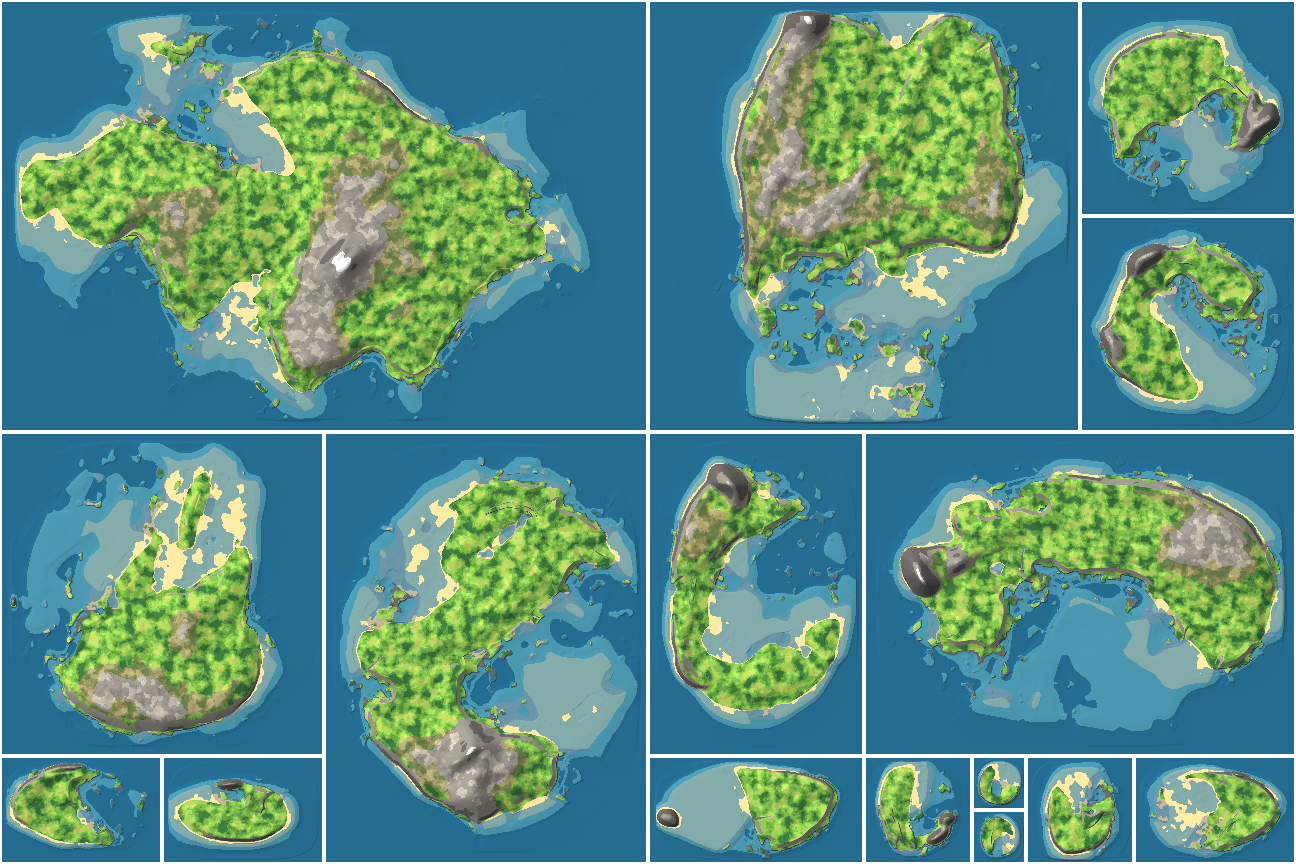
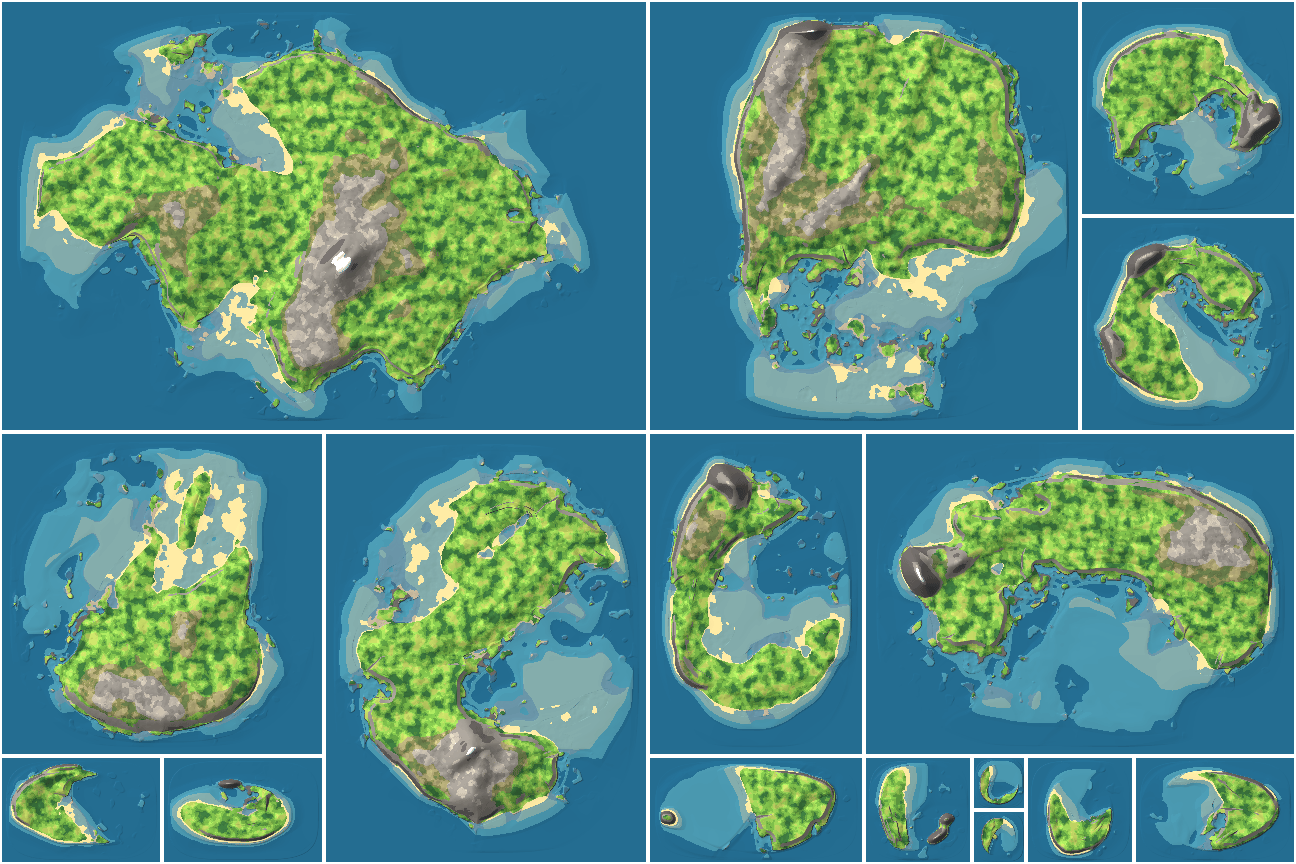
Guard every coast off the frame, and give the smallest maps real islets
The warp had one more way to push the falloff ring off the map: a drift
that diverges across it inflates the ring past both ends of an axis at
once, with no net translation for the centre correction to catch. A last
unwarped guard now forces the edge closed by the final few per cent of the
frame whatever the warp does, so every map keeps its sea margin.

The smallest maps also stopped reading as circles, which took two fixes.
Their land share now tapers further, pulling the coastline off the falloff
ring and onto the flat interior where the noise draws it. And the
sea-depth anchor slides from the sea's median to its shallow side as the
map shrinks - on a map that is mostly falloff ring the median sits in the
ring, the shallows floor never fired, and the whole lagoon mapped to
centimetres of water that painted as one huge pale bank around the islet.
Anchored among the cells the player actually sees, the lagoon runs sand
to dark water and the bank survives only where the shore character puts
it.

diff --git a/src/terrain.rs b/src/terrain.rs
@@ -73,12 +73,43 @@ const LAND_FRACTION: f32 = 0.34;
 /// clears the ring on its own and the full share is safe.
 const LAND_FRACTION_SMALL: f32 = 0.28;
 
+/// The land share on the smallest maps of all, where even the shrunken blob
+/// fills the falloff ring's whole interior. Down there the noise has no
+/// wavelength short enough to texture the outline, so a coast anywhere near
+/// the ring is *drawn by* the ring and every islet comes out a circle. This
+/// pulls the sea-level contour well inside the ring, onto the flat of the
+/// falloff, where the noise's short octaves are the steepest thing left and
+/// get to draw the outline instead.
+const LAND_FRACTION_TINY: f32 = 0.16;
+
+/// How far the sea-depth anchor slides from the sea's median towards its
+/// shallow side as the map shrinks: 0 leaves the [`Calibration`] knee on the
+/// median, 1 moves it to the shallowest sixth or so of the sea.
+///
+/// The smallest maps need it moved, because their sorted field is nearly
+/// radial order: over half of any map is falloff ring, and with no noise to
+/// interleave the two, every quantile from the median down lands *in* the
+/// ring. Anchored there, the whole visible lagoon maps to centimetres of
+/// water, and the map paints as an islet in the middle of one huge pale
+/// bank — the bullseye that made every small map read as a circle. Anchoring
+/// on the shallow side puts the knee among the cells the player actually
+/// sees, and the lagoon gets a real gradient down to dark water. On maps
+/// with wavelengths to spare the noise interleaves ring and interior and the
+/// median anchor is both safe and better — a shallow-side anchor there was
+/// tried once, bent healthy seeds and starved their beaches — so it fades
+/// out entirely before the preset sizes.
+fn shoal_shift(extent: Vec2) -> f32 {
+    let cycles = (extent.x * extent.y).sqrt() / CONTINENT_SCALE;
+    1.0 - smoothstep(0.35, 1.0, cycles)
+}
+
 /// The land share for a given map extent, continuous in it so nothing jumps
 /// as a size control sweeps through it. Measured in how many times the
-/// landmass field repeats across the map, since that is what decides whether
-/// the land is one blob or several lobes: up to about one repeat it is one
-/// blob and gets [`LAND_FRACTION_SMALL`], by one and a half it is lobed
-/// enough to carry the full [`LAND_FRACTION`].
+/// landmass field repeats across the map, since that is what decides what
+/// the land can be: down near a fifth of a repeat the coast has to fit
+/// inside the falloff ring and gets [`LAND_FRACTION_TINY`], up to about one
+/// repeat the land is a single blob and gets [`LAND_FRACTION_SMALL`], and by
+/// one and a half it is lobed enough to carry the full [`LAND_FRACTION`].
 ///
 /// On a rectangular map the repeats are counted across the geometric mean of
 /// the two extents — how many lobes the field can fit goes with the map's
@@ -86,7 +117,9 @@ const LAND_FRACTION_SMALL: f32 = 0.28;
 /// back along its length what it gave up across its width.
 fn land_fraction(extent: Vec2) -> f32 {
     let cycles = (extent.x * extent.y).sqrt() / CONTINENT_SCALE;
-    LAND_FRACTION_SMALL + (LAND_FRACTION - LAND_FRACTION_SMALL) * smoothstep(1.2, 1.5, cycles)
+    LAND_FRACTION_TINY
+        + (LAND_FRACTION_SMALL - LAND_FRACTION_TINY) * smoothstep(0.15, 0.7, cycles)
+        + (LAND_FRACTION - LAND_FRACTION_SMALL) * smoothstep(1.2, 1.5, cycles)
 }
 
 /// Share of that land standing high enough to count as mountain.
@@ -592,6 +625,9 @@ pub struct TerrainGenerator {
     /// [`peak_height`] of its extent as a share of [`HEIGHT_SCALE`], 1.0 on
     /// anything but a small map.
     relief: f32,
+    /// How far this map's sea-depth anchor slides to the shallow side —
+    /// [`shoal_shift`] of its extent, 0 on anything but a small map.
+    shoal: f32,
     /// How much taller this seed's coastal band is than the one the constants
     /// were tuned on. See [`TerrainGenerator::fit_coast_scale`].
     coast_scale: f32,
@@ -649,6 +685,7 @@ impl TerrainGenerator {
             coast_scale: 1.0,
             land: land_fraction(config.extent()),
             relief: peak_height(config.extent()) / HEIGHT_SCALE,
+            shoal: shoal_shift(config.extent()),
             half_extent: config.half_extent(),
             centre_drift: Vec2::ZERO,
         };
@@ -657,8 +694,12 @@ impl TerrainGenerator {
         let samples = generator.fit_ranges(config.tiles());
         generator.fit_range_height(&samples);
         let (raw, dims, origin) = generator.sample_raw(config.tiles());
-        generator.calibration =
-            Calibration::fit(&mut raw.clone(), generator.land, generator.relief);
+        generator.calibration = Calibration::fit(
+            &mut raw.clone(),
+            generator.land,
+            generator.relief,
+            generator.shoal,
+        );
         generator.coast = CoastDistance::from_raw(&raw, dims, origin, &generator.calibration);
         generator.fit_coast_scale(&raw, dims, origin);
         generator
@@ -778,7 +819,8 @@ impl TerrainGenerator {
         let peak_at = |gain: f32| {
             let mut raw: Vec<f32> = samples.iter().map(|s| s.raw(gain)).collect();
             // Sorts in place, so the last entry is the summit afterwards.
-            let calibration = Calibration::fit(&mut raw, self.land, self.relief);
+            let calibration =
+                Calibration::fit(&mut raw, self.land, self.relief, self.shoal);
             calibration.metres(raw[raw.len() - 1])
         };
 
@@ -1094,7 +1136,20 @@ impl TerrainGenerator {
         // further out has been tried twice and is worse both times: the land
         // reaches the rim and is cut off dead straight, or the sea floods the
         // interior into fragments.
-        let edge = smoothstep(0.72, 1.12, shaped);
+        // A last, unwarped guard on the outcome, because the two guards above
+        // both act on the bend's *inputs* and the warp has one more trick: a
+        // drift that diverges across the map — pulling outward on both ends
+        // of an axis at once — inflates the ring past both frame edges
+        // without any net translation for the subtraction to catch or, on a
+        // large map, any taper to damp. Whatever the warp does, the edge is
+        // forced closed by the last few per cent of the frame, so every map
+        // keeps a sea margin; where it binds the coast follows the unwarped
+        // contour for a stretch, which is an arc, and an arc is the ring
+        // showing — far better than the frame showing. It starts well outside
+        // the ring's usual reach, so the healthy majority of coasts never
+        // touch it.
+        let guard = smoothstep(0.86, 0.99, self.squircle(wx, wz, 2.6));
+        let edge = smoothstep(0.72, 1.12, shaped).max(guard);
 
         // The rim, in unwarped coordinates and narrower still, so that whatever
         // the warp does the very edge of the map is open sea. Not wider: the
@@ -1548,8 +1603,9 @@ impl Calibration {
     /// Fits to a grid of raw samples covering the whole map. `raw` is sorted in
     /// place — it is the caller's scratch, not a field of anything. `relief`
     /// scales the above-water targets down on maps too small for full-height
-    /// mountains — see [`peak_height`].
-    fn fit(raw: &mut [f32], land: f32, relief: f32) -> Self {
+    /// mountains — see [`peak_height`] — and `shoal` slides the sea-depth
+    /// anchor to the shallow side on those same maps — see [`shoal_shift`].
+    fn fit(raw: &mut [f32], land: f32, relief: f32, shoal: f32) -> Self {
         raw.sort_by(|a, b| a.partial_cmp(b).expect("no NaN in a height field"));
         let quantile = |q: f32| raw[((raw.len() - 1) as f32 * q) as usize];
 
@@ -1591,19 +1647,24 @@ impl Calibration {
                 (natural, slope, slope)
             };
 
-        // The same again below the waterline: the sea's median, and where
-        // the straight slope through the deep anchor would put it. Only a
-        // median that comes out shallower than the floor bends the line.
+        // The same again below the waterline: the sea's median — slid to the
+        // shallow side on the smallest maps, whose median is in the falloff
+        // ring, see [`shoal_shift`] — and where the straight slope through
+        // the deep anchor would put it. Only an anchor that comes out
+        // shallower than the floor bends the line. The floor eases with the
+        // slide: the shallower the anchored cells, the less depth they have
+        // to be guaranteed.
         let deep = sea_level - quantile(DEEP_FRACTION);
         let depth_gain = MAX_DEPTH / deep.max(1e-4);
-        let sea_knee = sea_level - quantile((1.0 - land) * 0.5);
+        let shallows_floor = SHALLOWS_FLOOR - 1.5 * shoal;
+        let sea_knee = sea_level - quantile((1.0 - land) * (0.5 + 0.35 * shoal));
         let natural_depth = depth_gain * sea_knee;
         let (sea_knee_depth, depth_shallow, depth_deep) =
-            if natural_depth < SHALLOWS_FLOOR && sea_knee > 1e-4 && deep - sea_knee > 1e-4 {
+            if natural_depth < shallows_floor && sea_knee > 1e-4 && deep - sea_knee > 1e-4 {
                 (
-                    SHALLOWS_FLOOR,
-                    SHALLOWS_FLOOR / sea_knee,
-                    (MAX_DEPTH - SHALLOWS_FLOOR) / (deep - sea_knee),
+                    shallows_floor,
+                    shallows_floor / sea_knee,
+                    (MAX_DEPTH - shallows_floor) / (deep - sea_knee),
                 )
             } else {
                 (natural_depth, depth_gain, depth_gain)
